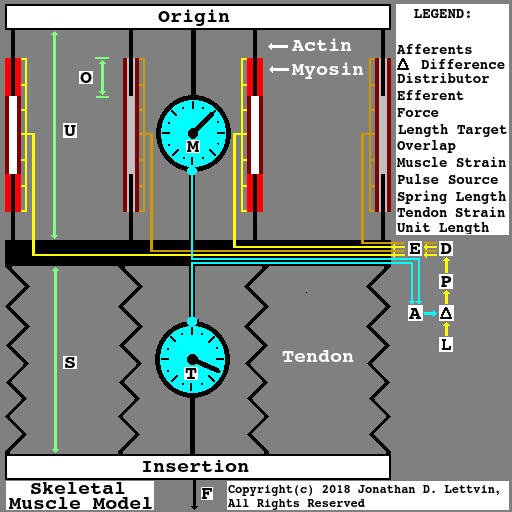
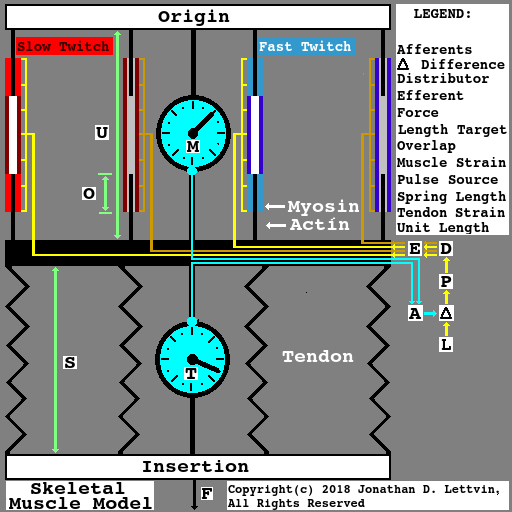
Fast twitch

Changed region(s): [[0.4688, 0.0625, 0.7812, 0.4688], [0.0312, 0.0625, 0.25, 0.4688]]

diff --git a/distributor.js b/distributor.js
@@ -106,10 +106,8 @@ function box (x0,y0,x1,y1,c)
 	var the = document.distributor;
 	var ctx = the.canvas.context;
 
-	ctx.beginPath ();
-	ctx.rect (x0, y0, x1, y1);
 	ctx.fillStyle = c;
-	ctx.fill ();
+	ctx.fillRect (x0, y0, x1, y1);
 } // box
 
 //------------------------------------------------------------------------------
@@ -316,6 +314,10 @@ function loop ()
 	var y0        = the.canvas.y0;
 	var scale     = the.scale - 1; // -1 to keep fibers within the sarcolemma
 	var r0        = parseInt (scale / 2); // radius of visible fiber
+	var rr        = parseInt (r0 * 0.65);
+	var rb        = parseInt (r0 * 0.95);
+	var rb3       = parseInt (rb / 3);
+	var r2        = parseInt (r0 / 2);
 	var frequency = requested * 1000 / the.interval[the.delay];
 
 	if (the.audio.frequency != frequency) {
@@ -330,10 +332,32 @@ function loop ()
 	}
 
 	// Color as many fibers as requested
-	while (requested--) {
-        the.index = (the.index + 1) % the.fiber.length;
-		var xy = the.coordinates[the.fiber[the.index]];
-		disk (x0 + xy[0] * scale, y0 + xy[1] * scale, r0, 'red');
+	var halfSlow = parseInt (the.fiber.slow.length / 2) - 1;
+	var halfFast = parseInt (the.fiber.fast.length / 2) - 1;
+	var slow = requested <= halfSlow ? requested : halfSlow;
+	requested -= slow;
+	var fast = requested <= halfFast ? requested : halfFast;
+	//if (slow > halfSlow) {
+		//slow = halfSlow;
+		//fast = requested - slow;
+		////if (fast > halfFast) {
+			////slow += fast - halfFast;
+		////}
+	//}
+	// Note active fibers can never exceed 1/2 (slow + fast).
+	while (slow--) {
+        the.slow = (the.slow + 1) % the.fiber.slow.length;
+		var xy = the.coordinates[the.fiber.slow[the.slow]];
+		var x = x0 + xy[0] * scale, y = y0 + xy[1] * scale;
+		disk (x, y, rr, 'red');
+		disk (x, y, rb3, 'black');
+    }
+	while (fast--) {
+        the.fast = (the.fast + 1) % the.fiber.fast.length;
+		var xy = the.coordinates[the.fiber.fast[the.fast]];
+		var x = parseInt (x0 + xy[0] * scale), y = parseInt (y0 + xy[1] * scale);
+		disk (x, y, rb, 'blue');
+		disk (x, y, rb3, 'black');
     }
 
 	// Show the name of the tonus state
@@ -410,20 +434,24 @@ The nervous system distributes signals so that fibers do not become exhausted.
 
 Hovering over the buttons shows the same information.
 Clicking on the other buttons does the same as typing underlined letters/digits.
-   When running, the model shows twitching/resting muscle fibers as red/brown.
+   When running, the model shows twitching/resting muscle fibers as red/brown
+for fast twitch fibers and blue/brown for fast twitch fibers.
    To aid in visualizing groups of twitching fibers are shown all at once while
 the accompanying sound is more consistent with uncoordinated activations.
 */});
 
     info['3. Abstract'] = HEREDOC(function () {/*
-   A muscle fiber bundle model (large brown circle) is shown in cross section.
-Twitching muscle fibers appear as small hexagonal pack red circles.
+   A muscle fiber bundle model (outer brown circle) is shown in cross section.
+Twitching muscle fibers appear as small hexagonal pack
+small red or large blue circles.
 A muscle fiber is a twitch unit which generates a shortening force.
 A muscle fiber extends the length of the muscle.
 A muscle fiber is excited by a single motor neuron.
 After twitching a fiber needs time to recover before the next twitch.
    This model shows that the time between fiber activations can be maximized
 while activations are uniformly distributed within the bundle.
+Fast twitch fibers are activated only when the muscle is heavily used
+(specifically when harder contractions are requested).
 */});
 
     info['4. Axon'] = HEREDOC(function () {/*
@@ -502,7 +530,9 @@ function initializeDistributor ()
     document.distributor = {
         interval     : [10, 33, 100, 333, 1000],
 		hardest      : 10,
-        index        : 0,
+		slow         : 0,
+        fast         : 0,
+		ratio        : 0.66,  // slow/fast fiber counts
         running      : true,
         strong       : 0,
         timer        : null,
@@ -519,7 +549,7 @@ function initializeDistributor ()
 
 	the.diameter = 1 + 2 * the.radius;
 	the.coordinates = {};
-	the.fiber = [];
+	the.fiber = { slow: [], fast: [] };
 
 	var sheet = document.styleSheets[0];
 
@@ -559,10 +589,15 @@ function initializeTable ()
 	// Initialize display coordinates and indices
 	// the.fiber is an enumeration of all visible fiber indices
 	the.coordinates = newHexagonal (the.radius);
-	the.fiber = newRange (0, the.coordinates.length);
+	var all  = the.coordinates.length;
+	var slow = parseInt (all * the.ratio);
+	var fast = all - slow;
 
-	// the.fiber is shuffled and used to identify fibers to twitch
-	shuffle (the.fiber);
+	var fibers = newRange (0, all);
+	// fibers are shuffled and used to identify fibers to twitch
+	shuffle (fibers);
+	the.fiber.slow = fibers.slice (0   , slow);
+	the.fiber.fast = fibers.slice (slow, all )
 } // initializeTable
 
 

diff --git a/index.html b/index.html
@@ -5,6 +5,7 @@
 		<link   type   ="image/x-icon"    href="BBKtm.png" rel="icon" />
 		<script type   ="text/javascript" src="utility.js"></script>
 		<script type   ="text/javascript" src ="wiki.js"></script>
+		<script type   ="text/javascript" src ="speakable.js"></script>
 		<link   type   ="text/css"        href="tooltip.css" rel="stylesheet">
 <style>
 table, td { border: 1px solid black; border-collapse: collapse; padding: 3px; }
@@ -78,6 +79,18 @@ ___With brains, your devices will work better than they ever have before.
 				{	href: "Heilmeier.html",
 					text: "Proposal",
 					help: "Q&amp;A"},
+				{	href: JYL + "seen.movement.html",
+					text: "Seen Movement",
+					help: "Experiment identifying geometrics"},
+				{	href: "optics.html",
+					text: "Visual optics",
+					help: "Refraction, Diffraction, etc..."},
+				{	href: GrayStep + "NoisyGrayStep",
+					text: "Gray step",
+					help: "Key problem to be solved"},
+				{	href: rod + "rod.html",
+					text: "Transduction",
+					help: "Photoreceptor adaptation"},
 				{	href: "gaze.html",
 					text: "Tracking",
 					help: "First full reflex arc"},
@@ -90,24 +103,15 @@ ___With brains, your devices will work better than they ever have before.
 				{	href: "distributor.html",
 					text: "Distributor",
 					help: "BBK&trade; Muscle control details"},
-				{	href: rod + "rod.html",
-					text: "Rod",
-					help: "Photoreceptor adaptation"},
 				//{	href: "https://rawgit.com/jlettvin/Airy",
 					//text: "Airy",
 					//help: "Generating diffraction"},
-				{	href: JYL + "seen.movement.html",
-					text: "Seen Movement",
-					help: "Key frog experiment"},
 				{	href: Tubulin + "bipolar.shared.path.html",
 					text: "Shared paths",
 					help: "axon terminal arbor"},
 				{	href: Tubulin + "bipolar.unique.path.html",
 					text: "Unique paths",
 					help: "Tubulin trees"},
-				{	href: GrayStep + "NoisyGrayStep",
-					text: "Gray step",
-					help: "Contrast boundaries"},
 				{	href: HexTile,
 					text: "Hexagon pack",
 					help: "Labeling positions"},
